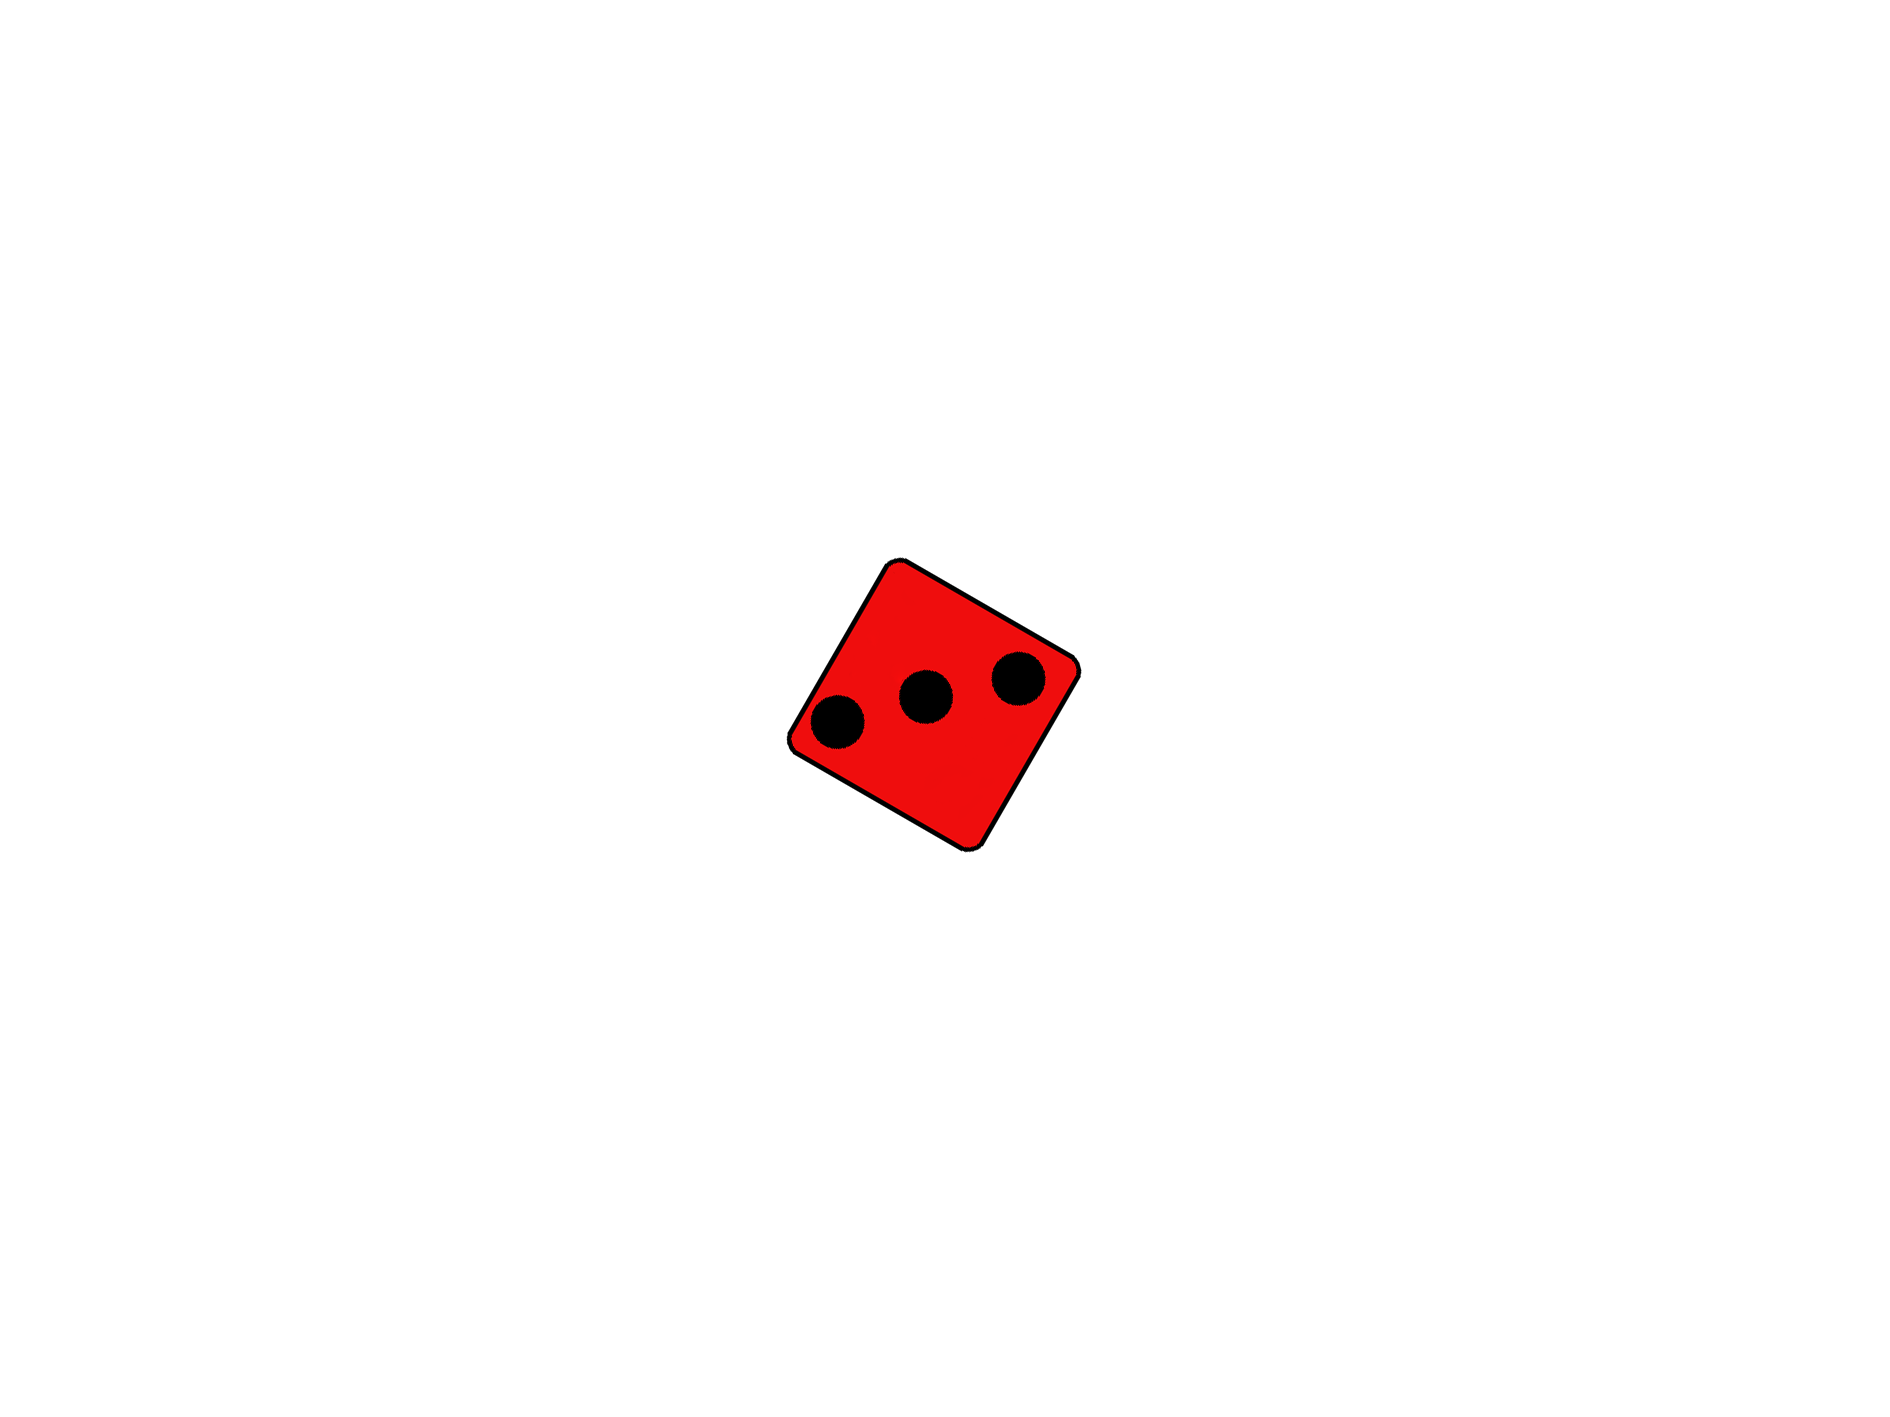
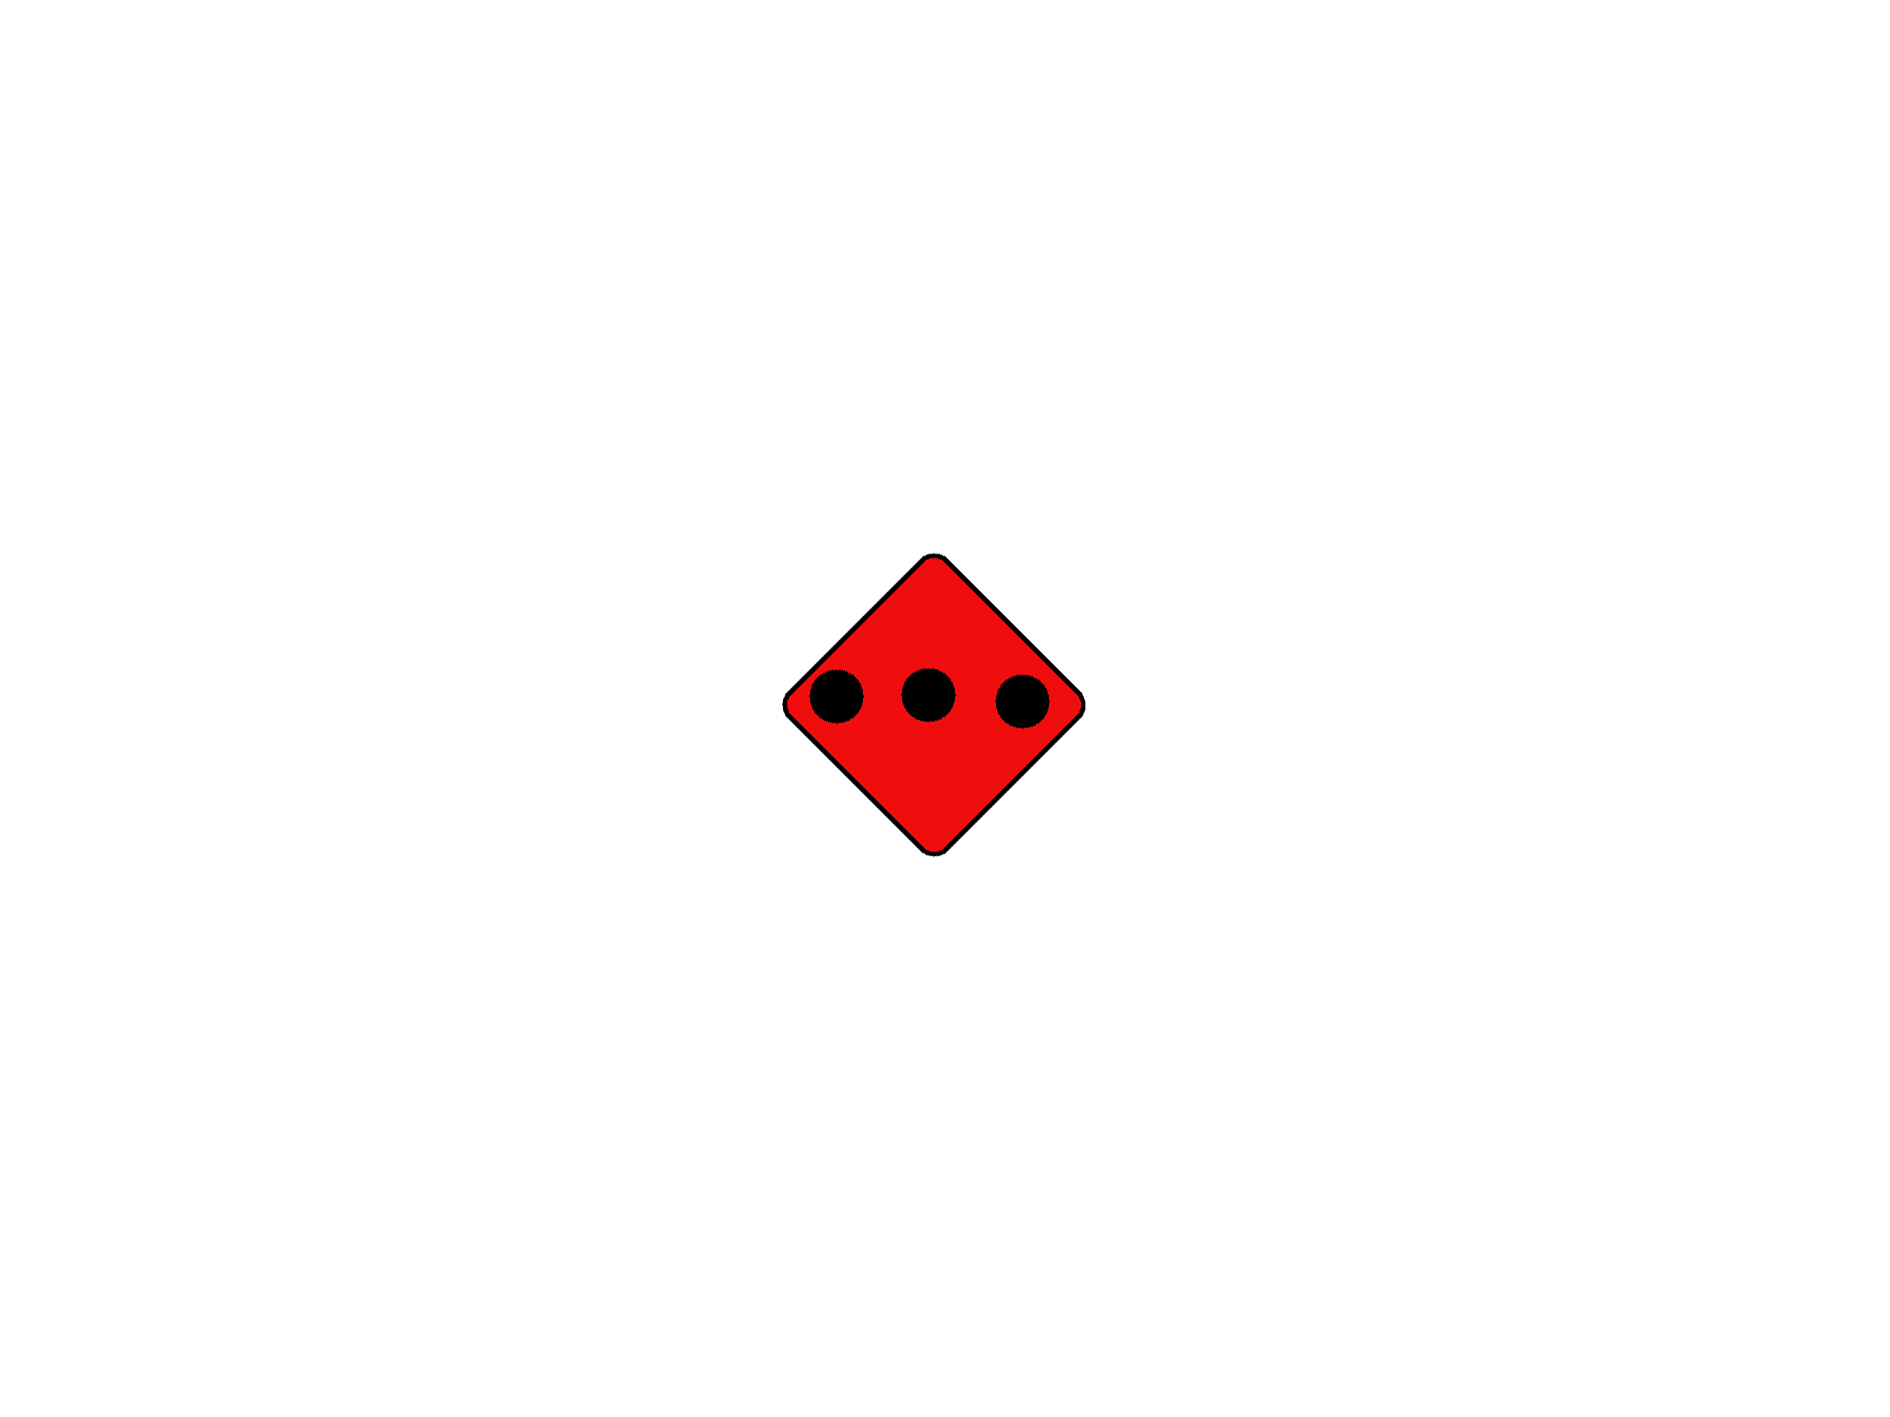
Dodano drugą kostkę i naprawiono wyświetlanie ostatecznego wyniku kostki

Changed region(s): [[0.4058, 0.3726, 0.5307, 0.5589], [0.4995, 0.4347, 0.5931, 0.5589], [0.4683, 0.5589, 0.5307, 0.621]]

diff --git a/main.py b/main.py
@@ -41,7 +41,10 @@ game_board_image, IMAGES = load_images(path)
 
 available_width, available_height = pygame.display.get_surface().get_size()
 image_aspect_ratio = game_board_image.get_width() / game_board_image.get_height()
-DICE_IMAGES = [pygame.image.load(os.path.join(path, f'{i}.png')).convert_alpha() for i in range(1, 24)]
+DICE_IMAGES = [pygame.image.load(os.path.join(path, f'{i}.png')).convert_alpha() for i in range(1, 20)]
+scaled_images = [pygame.transform.scale(image, (available_width // 2, available_height // 2)) for image in DICE_IMAGES]
+DICE_IMAGES = scaled_images
+
 
 def calculate_game_board_dimensions():
     if image_aspect_ratio > 1:
@@ -112,9 +115,23 @@ class CommunityChest(Field):
         self.num_cards = 3
 
 
-class Chance(Field):
-    def __init__(self, name, position_x, position_y, type):
-        super().__init__(name, position_x, position_y, type)
+# class Chance(Field):
+#     def __init__(self, name, position_x, position_y, type):
+#         super().__init__(name, position_x, position_y, type)
+#         self.cards = []
+#
+#     def add_card(self, card):
+#         self.cards.append(card)
+#
+#
+# class ChanceCard:
+#     def __init__(self, name, description):
+#         self.name = name
+#         self.description = description
+#
+#     def execute_action(self, player):
+#         # Wykonaj akcję związaną z kartą szansy
+#         pass
 
 
 Fields = [
@@ -190,7 +207,9 @@ class Board:
         self.window_open = True
         self.game_board_width, self.game_board_height = calculate_game_board_dimensions()
         self.game_board = pygame.transform.scale(game_board_image, (game_board_width, game_board_height))
-        self.dice_roll = 0
+        self.dice = Dice()
+        self.dice_roll_1 = 0
+        self.dice_roll_2 = 0
         self.code_message = "0"
         self.player_names = player_names
         self.waiting_for_input = False
@@ -201,8 +220,8 @@ class Board:
         self.current_player_index = (self.current_player_index + 1) % self.num_players
 
     def roll_dice(self):
-        dice = Dice()
-        self.dice_roll = dice.roll()
+        self.dice_roll_1 = self.dice.roll()
+        self.dice_roll_2 = self.dice.roll()
         self.action = True
 
     def initialize_players(self):
@@ -244,7 +263,7 @@ class Board:
             print("Kolejka. Wykonaj odpowiednie działania.")
 
     def move_player(self, player):
-        if self.dice_roll > 0:
+        if self.dice_roll_1 > 0:
             player.current_point = (player.current_point + 1) % len(Fields)  # Aktualizacja pozycji gracza
 
             # Przesunięcie pionka o jedno pole za start
@@ -263,7 +282,7 @@ class Board:
             player.rect.center = target_x, target_y
 
             # Przesunięcie pionka po pozostałych polach
-            for _ in range(1, self.dice_roll):
+            for _ in range(1, self.dice_roll_1 + self.dice_roll_2):
                 player.current_point = (player.current_point + 1) % len(Fields)
                 target_x, target_y = Fields[player.current_point].get_coordinates()
                 dx = target_x - player.rect.centerx
@@ -295,18 +314,24 @@ class Board:
         buy_button_text_rect = buy_button_text.get_rect(center=buy_button_rect.center)
         screen.blit(buy_button_text, buy_button_text_rect)
 
-    def animate_dice_roll(self, number):
-        frames = 24  # Liczba klatek animacji
+    def animate_dice_roll(self, dice_1_dots, dice_2_dots):
+        frames = 20  # Liczba klatek animacji
         delay = 20  # Opóźnienie między klatkami w milisekundach
 
         for i in range(frames):
             self.draw_game_board()
             for player in self.players:
                 player.draw(screen)
-            dice_image = DICE_IMAGES[i - 2]
-            dice_rect = dice_image.get_rect(center=(available_width // 2, available_height // 2))
-            screen.blit(dice_image, dice_rect)
-
+            if i + 1 == frames:
+                dice_image_1 = DICE_IMAGES[dice_1_dots]
+                dice_image_2 = DICE_IMAGES[dice_2_dots]
+            else:
+                dice_image_1 = DICE_IMAGES[i - 1]
+                dice_image_2 = DICE_IMAGES[frames - i - 2]
+            dice_1_rect = dice_image_1.get_rect(center=(available_width * 0.6, available_height // 2))
+            dice_2_rect = dice_image_1.get_rect(center=(available_width * 0.4, available_height // 2))
+            screen.blit(dice_image_1, dice_1_rect)
+            screen.blit(dice_image_2, dice_2_rect)
             pygame.time.wait(delay)
             clock.tick(60)
             pygame.display.flip()
@@ -323,7 +348,7 @@ class Board:
             player.draw(screen)
 
         font = pygame.font.Font(None, FONT_SIZE)
-        text = font.render("Oczka: " + str(self.dice_roll), True, (0, 0, 0))
+        text = font.render("Oczka: " + str(self.dice_roll_1) + str(self.dice_roll_2), True, (0, 0, 0))
         text_rect = text.get_rect(center=(available_width // 8, available_width // 4 - 100))
         screen.blit(text, text_rect)
 
@@ -362,7 +387,7 @@ class Board:
         if self.code_message:
             self.draw_message(self.code_message, current_field, font)
         if self.action:
-            self.animate_dice_roll(self.dice_roll)
+            self.animate_dice_roll(self.dice_roll_1 - 1, self.dice_roll_2 - 1)
 
         pygame.display.flip()
 
